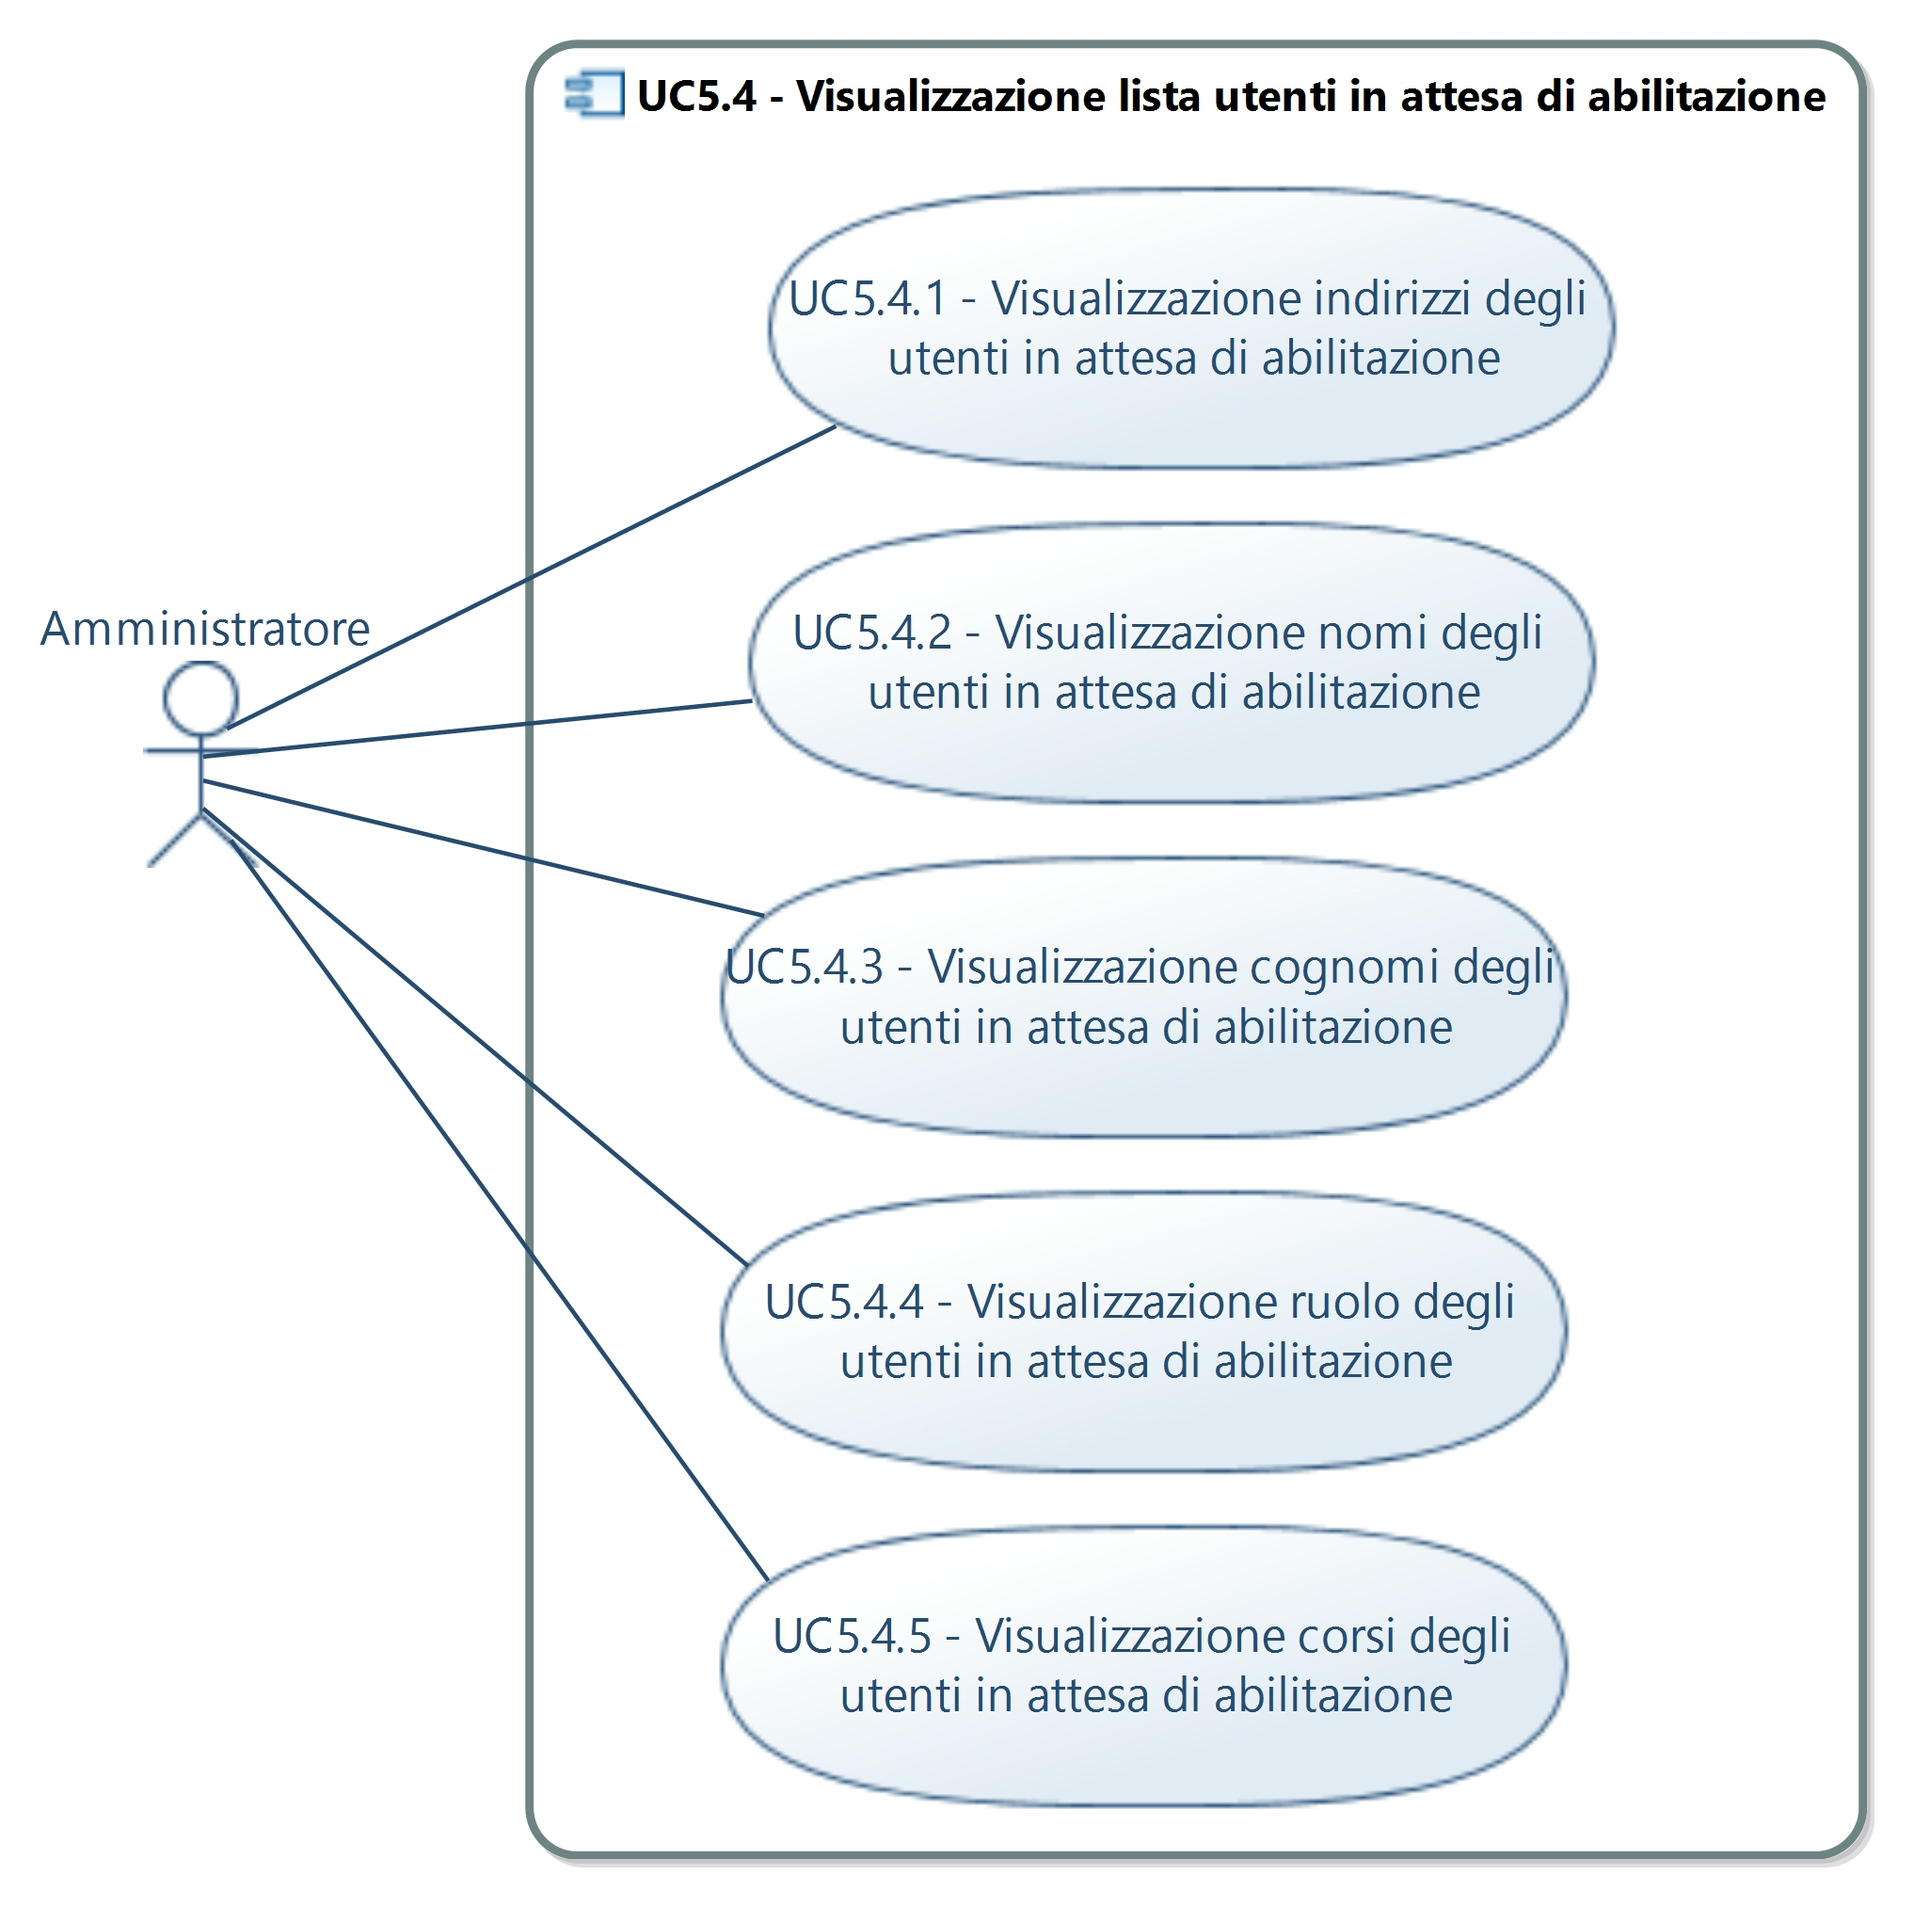
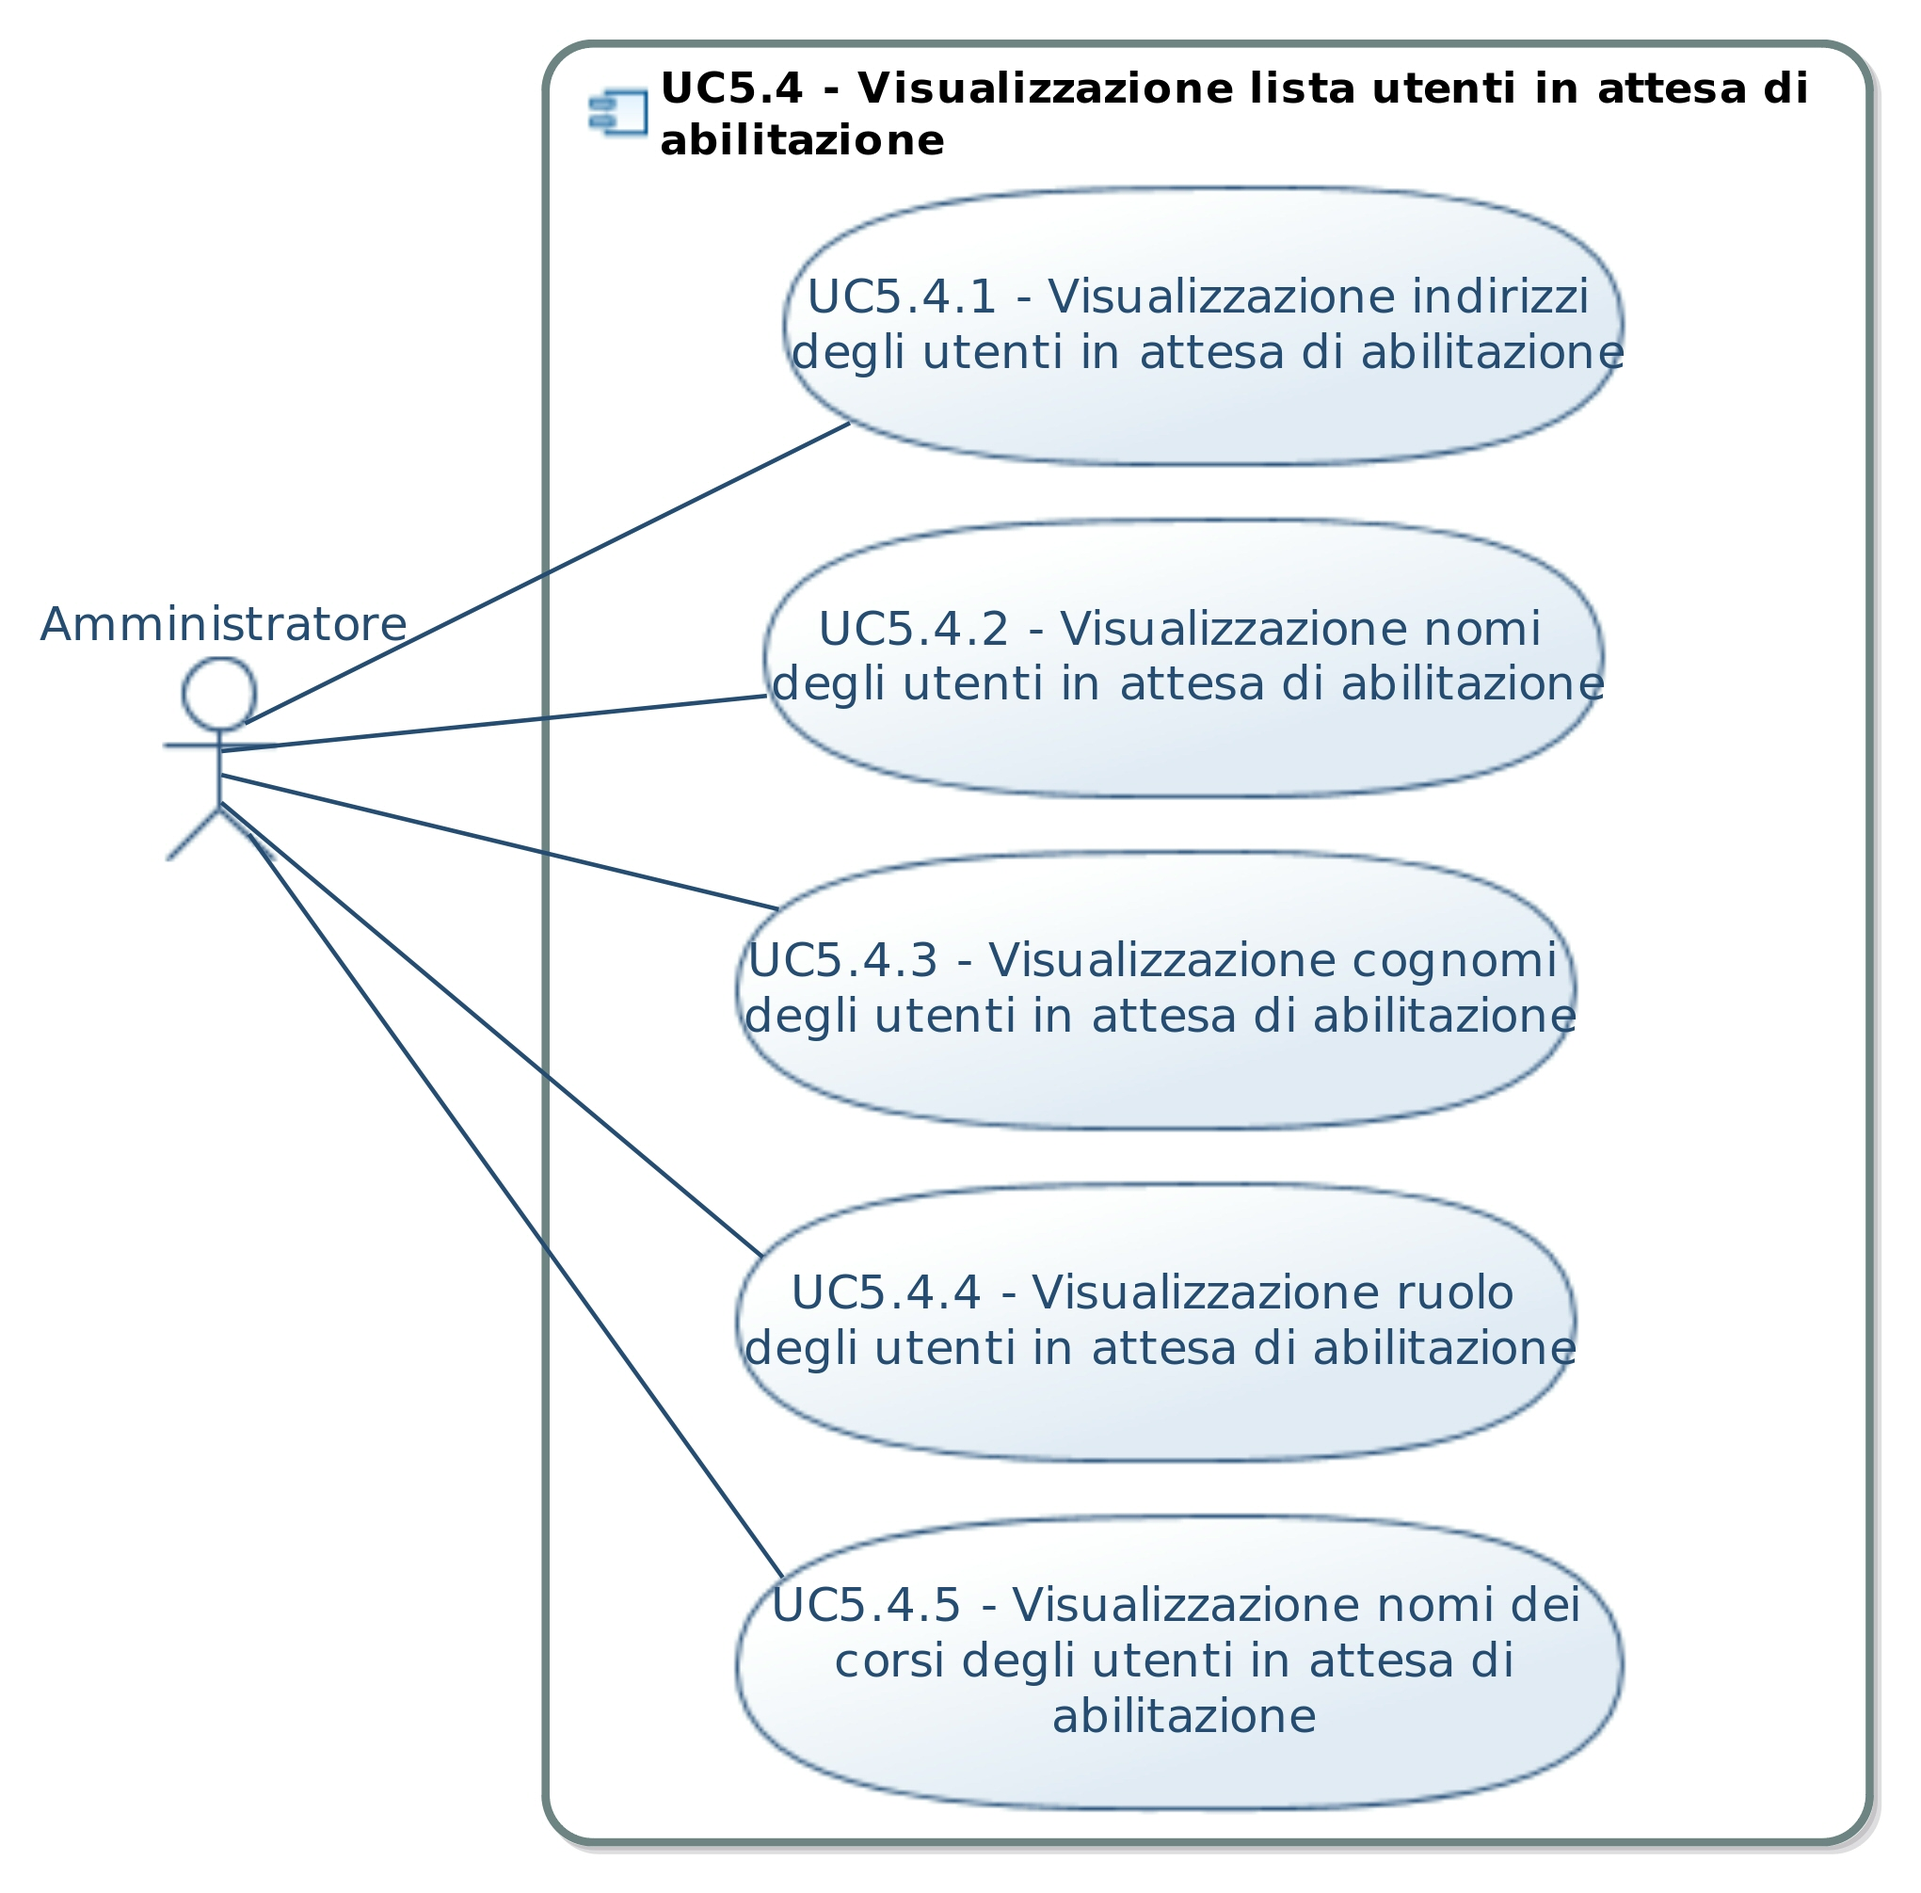
Diagramma UC5.4

diff --git a/Esterni/AnalisiDeiRequisiti/CasiDUso.tex b/Esterni/AnalisiDeiRequisiti/CasiDUso.tex
@@ -364,7 +364,6 @@ Ogni scenario possibile per un attore è disponibile anche ai suoi derivati.
 	\item \textbf{Precondizione:} il sistema riconosce l'utente nel ruolo di amministratore; 
 	\item \textbf{Postcondizione:} il sistema offre all'amministratore la lista degli studenti approvati.
 \end{itemize}
-%TODO: modificare diagramma UC5.2
 \begin{figure}[H]
 	\centering
 	\includegraphics[width=0.9\linewidth]{UC5_2.jpg}
@@ -396,7 +395,6 @@ Ogni scenario possibile per un attore è disponibile anche ai suoi derivati.
 	\item \textbf{Precondizione:} il sistema riconosce l'utente nel ruolo di amministratore; 
 	\item \textbf{Postcondizione:} il sistema offre all'amministratore la lista degli utenti in attesa di approvazione.
 \end{itemize}
-%TODO: modificare diagramma UC5.4
 \begin{figure}[H]
 	\centering
 	\includegraphics[width=0.8\linewidth]{UC5_4.jpg}
